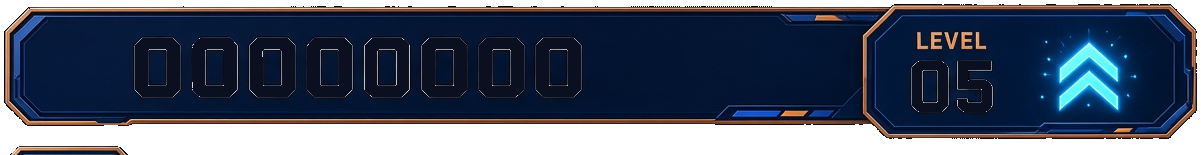
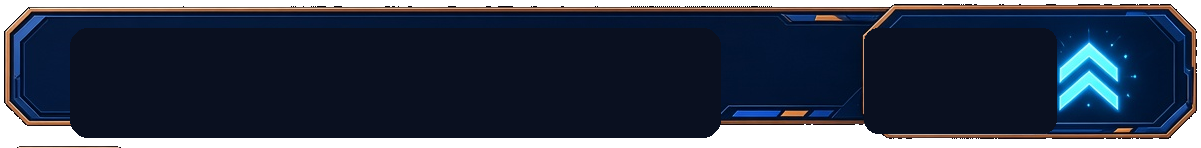
Tighten launch hits, HUD wells, and debris read.
Keep Volt airborne through the hop so tap-launch actually connects, paint clean score/level wells on the night2 chrome, enlarge shatter chunks, and shorten the control hint.

diff --git a/tools/extract_hud_chrome.py b/tools/extract_hud_chrome.py
@@ -88,6 +88,14 @@ def main() -> None:
                 r, g, b, a = px[x, y]
                 if a > 0 and r > 210 and g > 210 and b > 210:
                     px[x, y] = panel
+        # Recessed placeholder digits still leave dark outlines — paint the wells.
+        from PIL import ImageDraw
+        draw = ImageDraw.Draw(top_im)
+        draw.rounded_rectangle((70, 28, 720, th - 18), radius=18, fill=panel)
+        draw.rounded_rectangle((int(tw * 0.72), 28, int(tw * 0.88), th - 22), radius=14, fill=panel)
+        # Drop the stray HEIGHT chip under the capsule.
+        if th > 8:
+            top_im = top_im.crop((0, 0, tw, min(th, 148)))
         top_im.save(OUT / "hud_top.png")
         print("top", tbox, top_im.size)
 
@@ -98,22 +106,7 @@ def main() -> None:
         meter.crop(mbox).save(OUT / "hud_meter.png")
         print("meter", mbox, meter.crop(mbox).size)
 
-    # Portrait: punch playfield + outer navy so we have a 9:16 overlay hook.
-    portrait = Image.open(PORTRAIT).convert("RGBA")
-    pbg = portrait.getpixel((2, 2))[:3]
-    punched = flood_clear(
-        portrait,
-        [
-            (2, 2),
-            (portrait.width - 3, 2),
-            (2, portrait.height - 3),
-            (portrait.width // 2, int(portrait.height * 0.72)),
-        ],
-        pbg,
-        tol=20,
-    )
-    punched.save(OUT / "hud_chrome.png")
-    print("portrait chrome", punched.size, "opaque", sum(1 for p in punched.getdata() if p[3] > 20))
+    print("wrote hud_top.png and hud_meter.png")
 
 
 if __name__ == "__main__":
